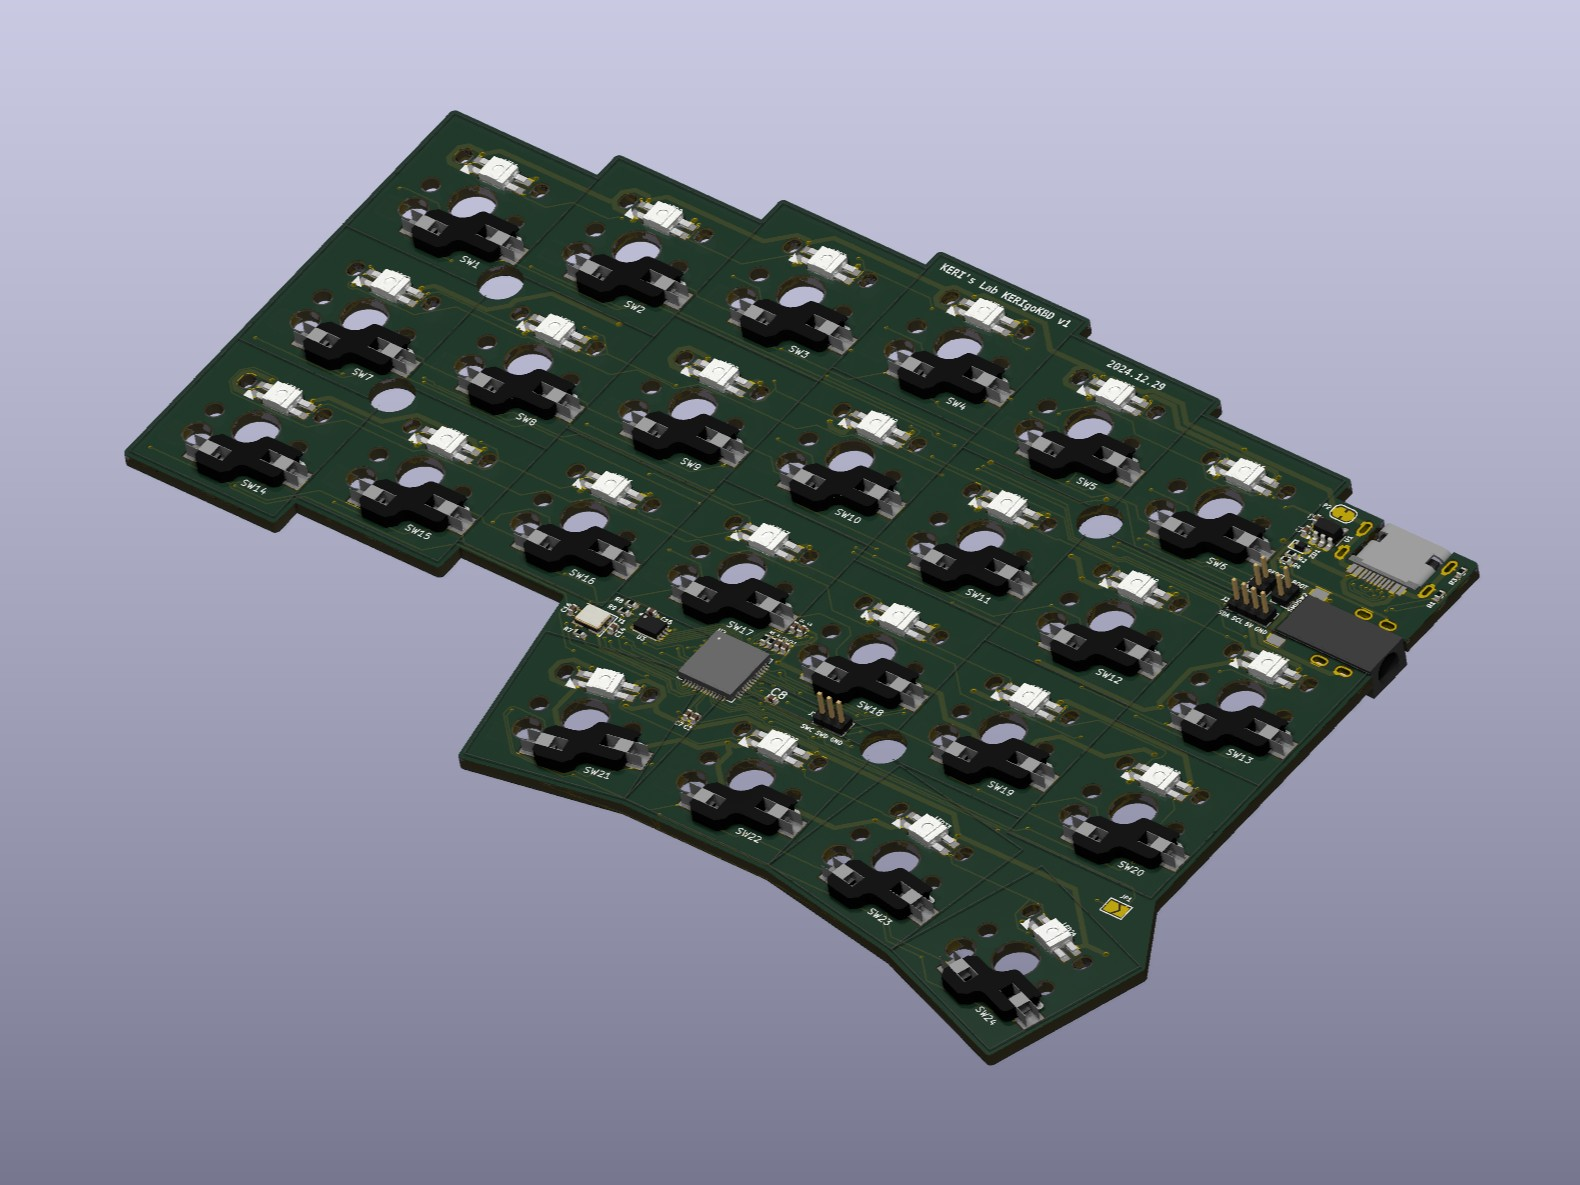
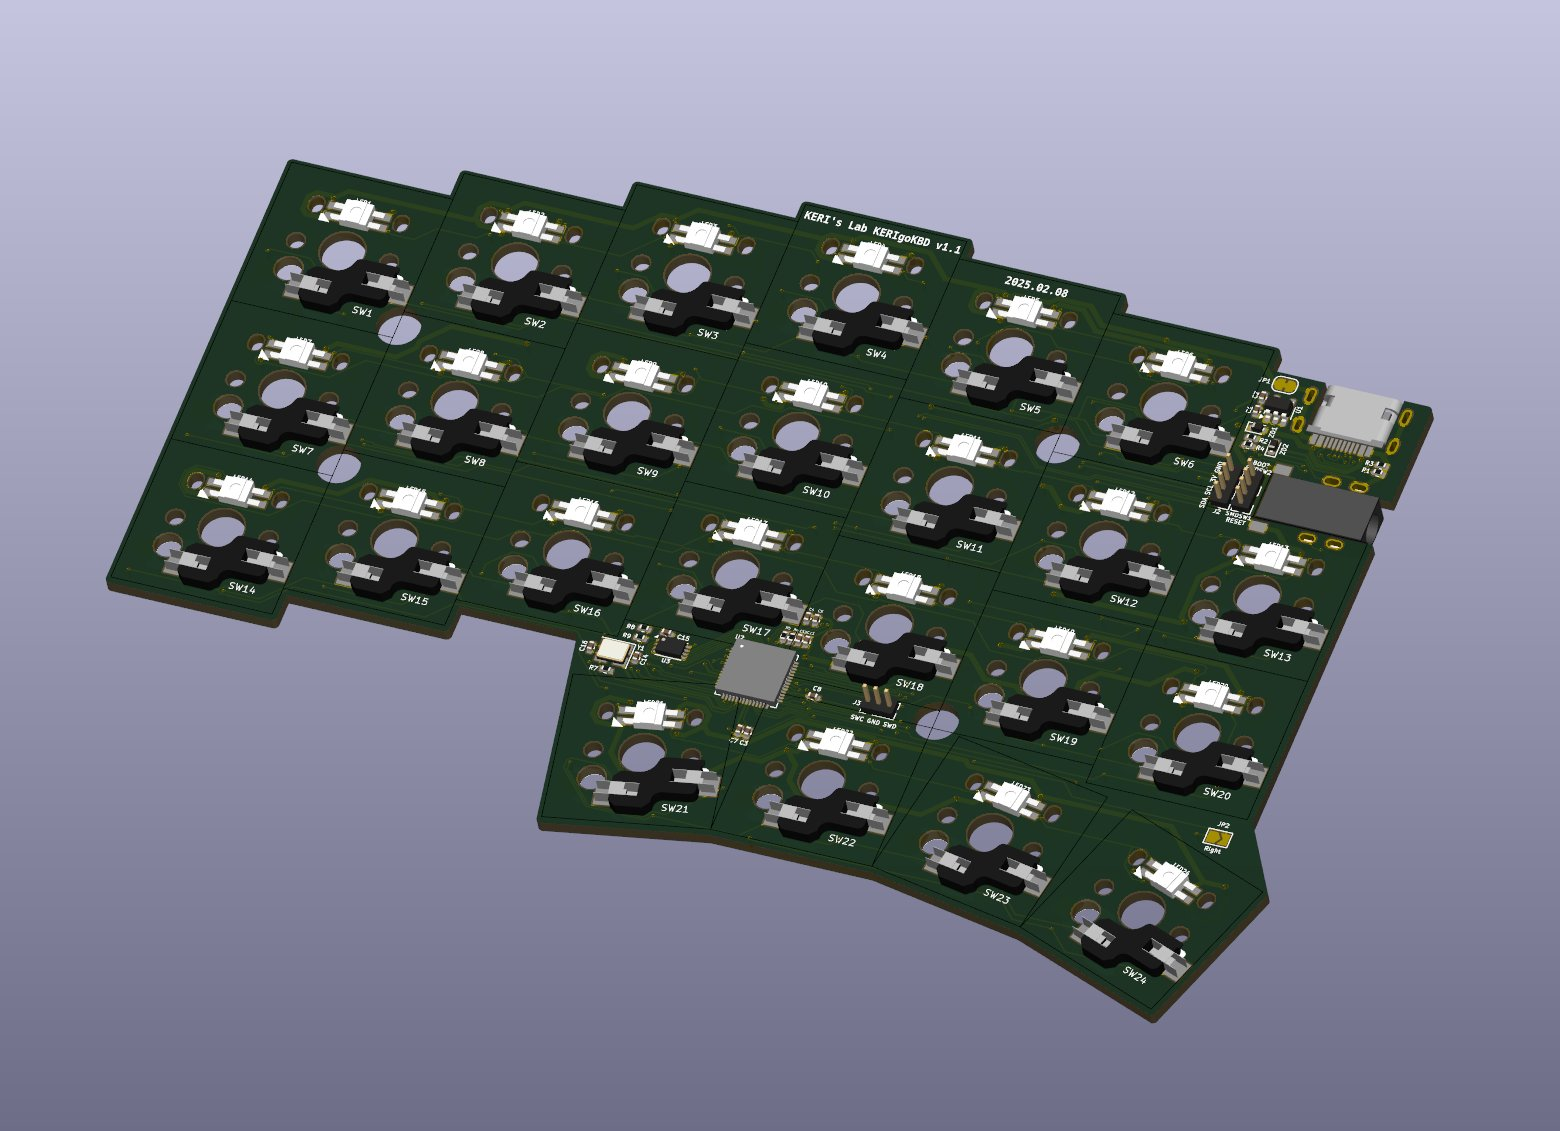
update readme and images

Changed region(s): [[0.0615, 0.0928, 0.9538, 0.8974]]

diff --git a/hardware/kerigokbd_v1/README.md b/hardware/kerigokbd_v1/README.md
@@ -10,6 +10,7 @@ KERI's Ergonomic Keyboard Version 1
 
 - [KERIgoKBD v1 - Remap](https://remap-keys.app/catalog/8pqWZfIyb0UqzhvSmsgh/keymap?id=7BYIomuRTYIakkXWYzAK)
 - [KERIgoKBD v1 - Keyboard Layout Editor](https://www.keyboard-layout-editor.com/#/gists/ef55d575836d948b814d1c28ccc5c396)
+- [KERIgoKBD v1 - Firmware](../../software/keyboards/kerigokbd/kerigokbd_v1/)
 
 ## スペック
 
@@ -24,12 +25,15 @@ KERI's Ergonomic Keyboard Version 1
 
 ## レイアウト
 
-- 左右分離
-- 左右それぞれ3行6列をベースとした40%レイアウト (合計48キー)
-- 親指キー4つずつ
-- 中央に追加キー2つずつ
+けりの手の形状に合わせた独自レイアウト
+
+- 左右分離（左右それぞれ24キーで合計48キー）
+- 数字キーのない40%レイアウト
+- 左右に4つずつの親指キー
+- 中央に2つずつの追加キー
 - 全キーにRGBバックライトLED
 
+[KERIgoKBD v1 - Keyboard Layout Editor](https://www.keyboard-layout-editor.com/#/gists/ef55d575836d948b814d1c28ccc5c396)
 ![KERIgoKBD v1](./images/kerigokbd_v1_top.jpg)
 
 ## 基板
@@ -40,8 +44,6 @@ KiCadで設計。JLCPCBに発注。左右分離の各基板をひとつの基板
 
 ![KERIgoKBD v1 Sketch](./pcb/kerigokbd.svg)
 ![KERIgoKBD v1 PCB](./images/kerigokbd_v1_pcb.jpg)
-<!-- ![KERIgoKBD v1 PCB Front](./images/kerigokbd_v1_pcb_front.jpg) -->
-<!-- ![KERIgoKBD v1 PCB Back](./images/kerigokbd_v1_pcb_back.jpg) -->
 
 ## ケース
 
@@ -54,7 +56,7 @@ Autodesk Fusionで設計。Bambu Lab P1S PLA White Marbleで印刷。
 
 ## ファームウェア
 
-[QMK Firmware](https://docs.qmk.fm/)のキーボードとして実装。Remapに対応。
+オープンソースプロジェクト[QMK Firmware](https://docs.qmk.fm/)のキーボードとして実装。Remapに対応。
 
 - ソースコード: [kerigokbd_v1](../../software/keyboards/kerigokbd/kerigokbd_v1/)
 

diff --git a/software/keyboards/kerigokbd/kerigokbd_v1/readme.md b/software/keyboards/kerigokbd/kerigokbd_v1/readme.md
@@ -4,9 +4,9 @@
 
 ![KERIgoKBD v1](../../../../hardware/kerigokbd_v1/images/kerigokbd_v1.jpg)
 
-* Keyboard Maintainer: [@kerikun11](https://github.com/kerikun11)
+* Keyboard Maintainer: [kerikun11](https://github.com/kerikun11)
 * Hardware Supported: [KERIgoKBD v1](../../../../hardware/kerigokbd_v1/)
-* Hardware Availability: only design data
+* Hardware Availability: Not For Sale
 
 Make example for this keyboard (after setting up your build environment):
 
